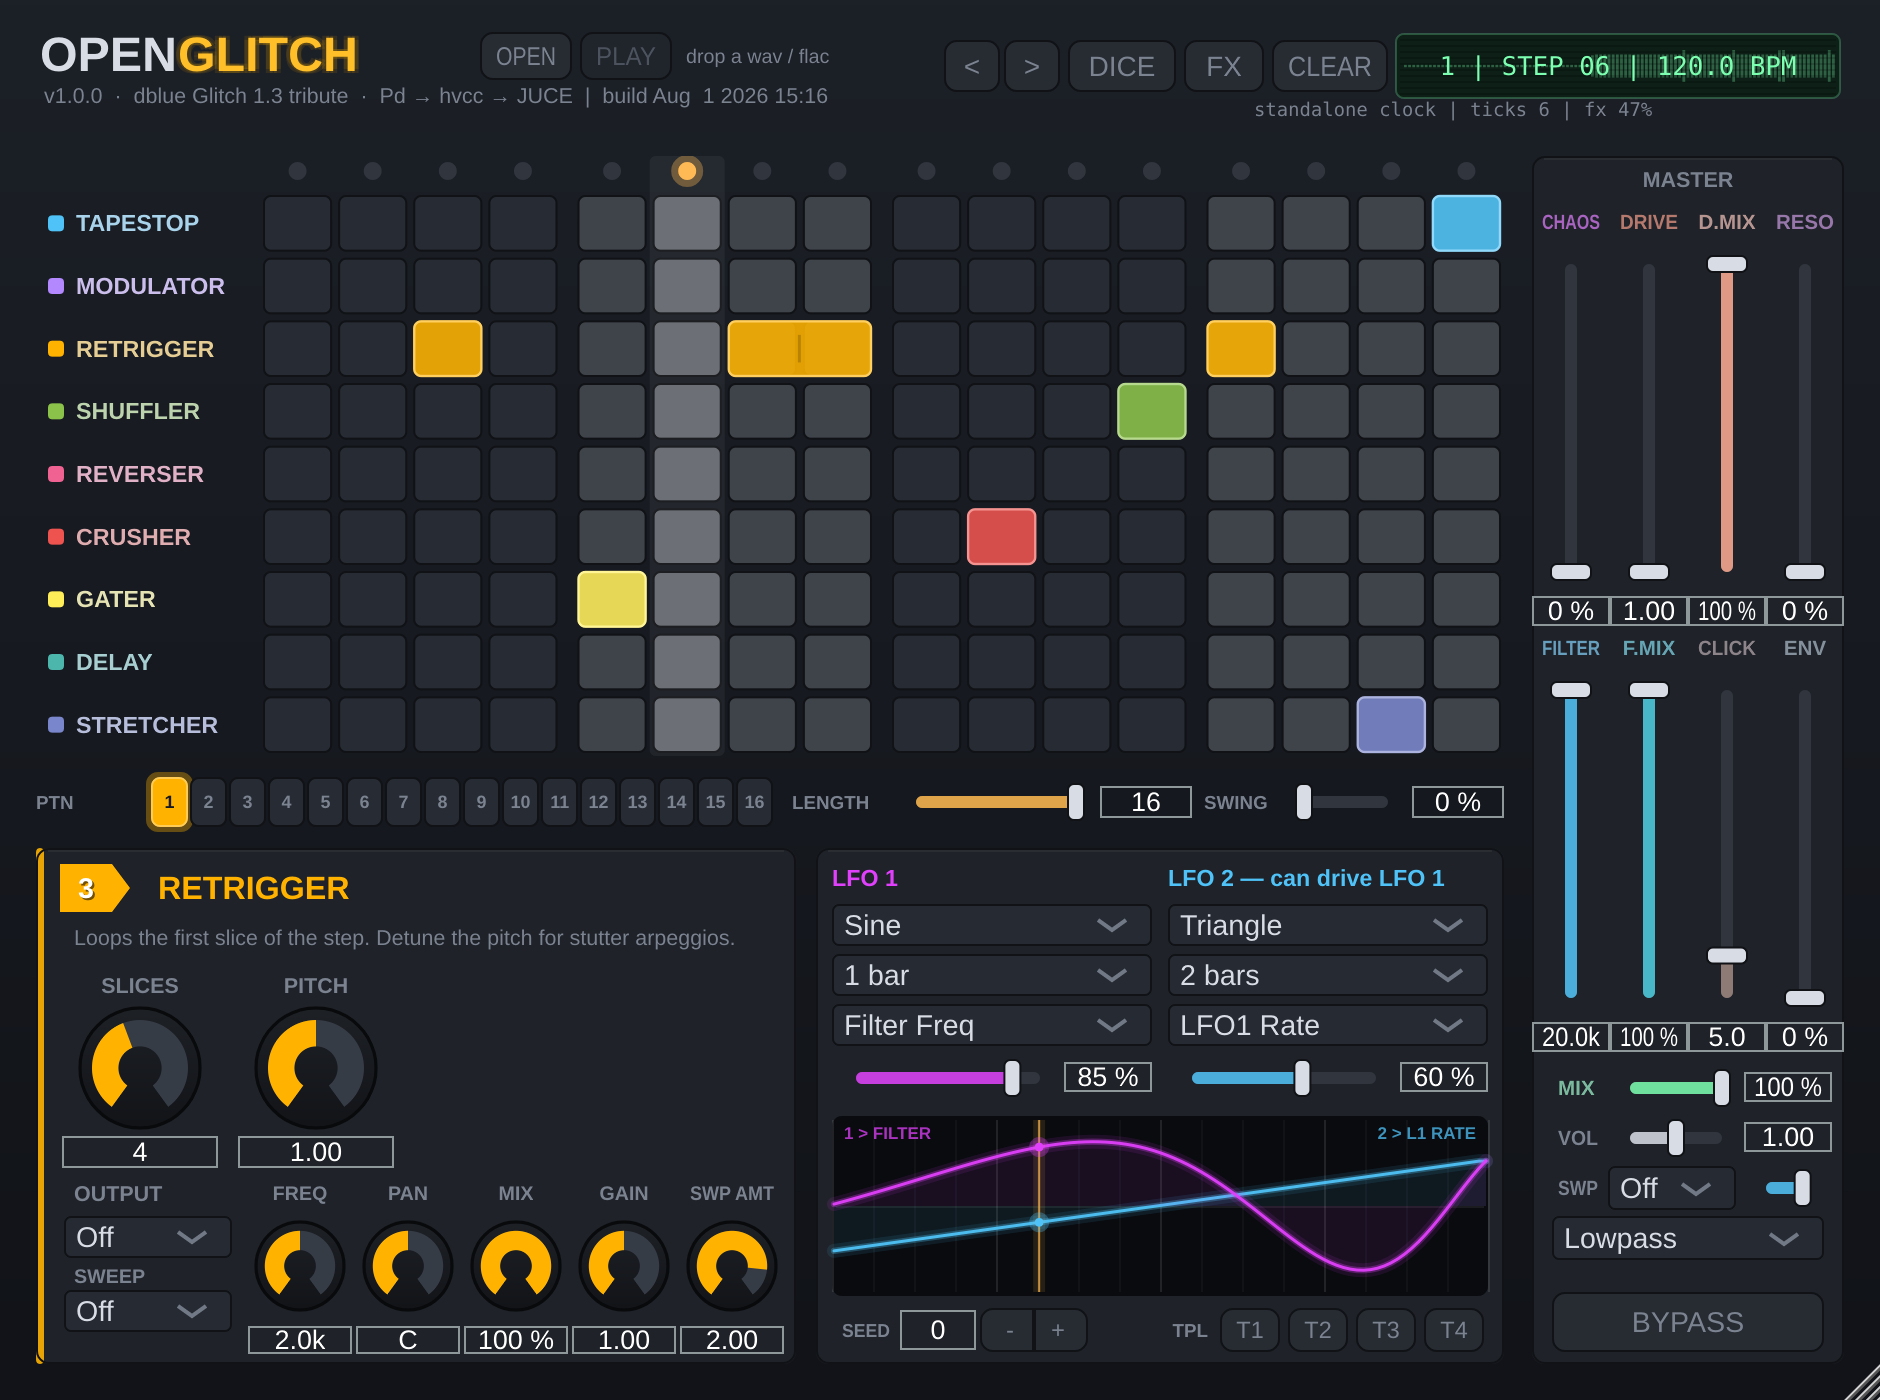
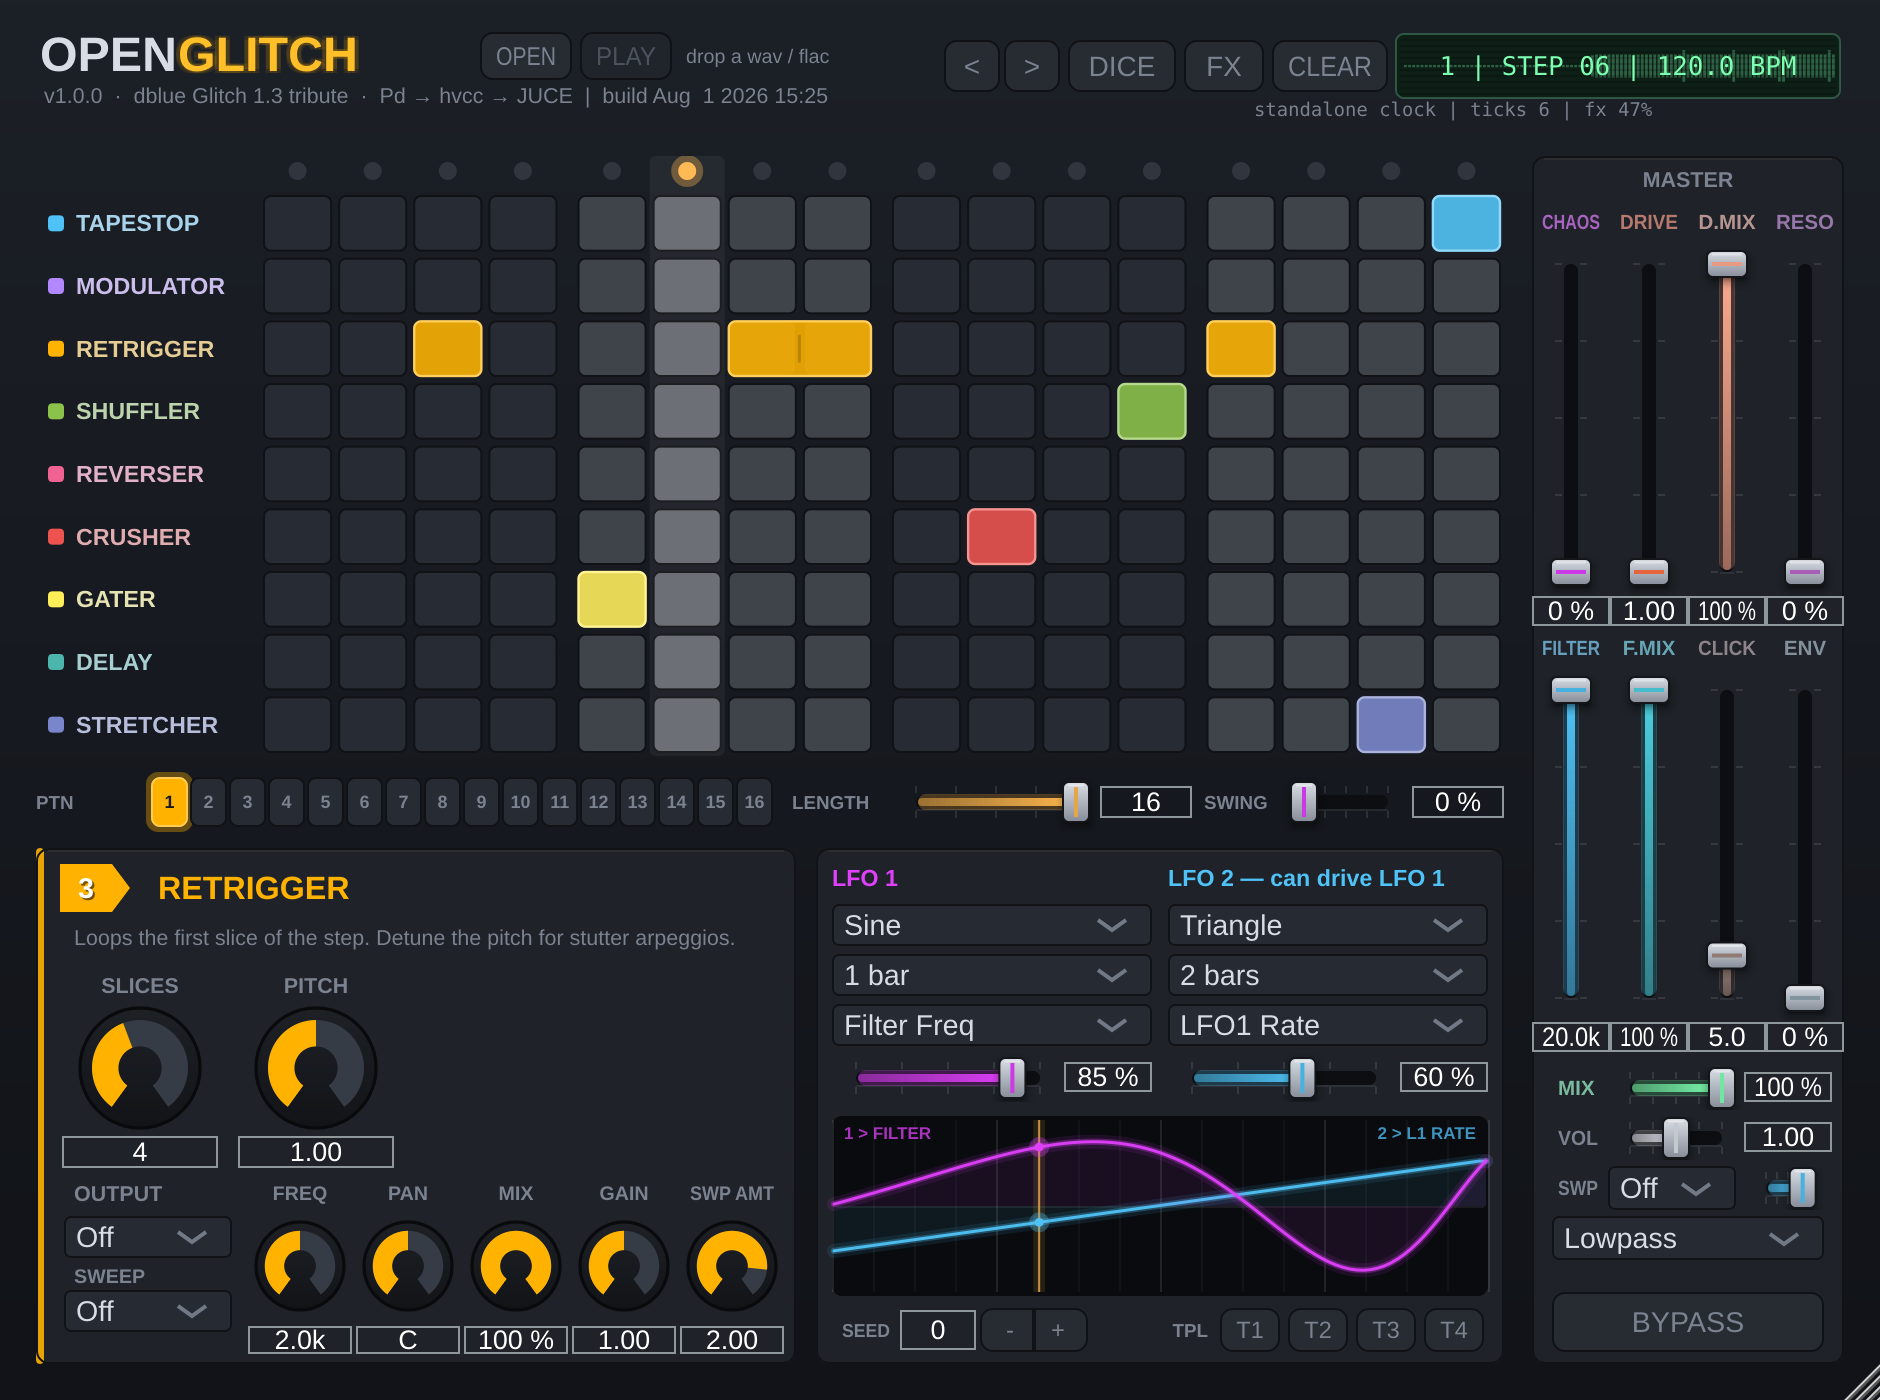
Console-fader sliders: machined caps, recessed slots, lit value bars
Linear sliders (master faders, LENGTH/SWING, LFO depths, MIX/VOL) get a
mixing-desk treatment: a dark recessed slot with quarter-scale ticks, a
value bar that brightens toward the cap, and a gradient metal cap with
the accent-coloured index line and a drop shadow for weight.

diff --git a/src/PluginEditor.cpp b/src/PluginEditor.cpp
@@ -120,24 +120,58 @@ void OpenGlitchLookAndFeel::drawLinearSlider (juce::Graphics& g, int x, int y, i
 {
     using namespace glitch::palette;
 
+    // Console-fader treatment: a recessed slot with scale ticks, a lit value
+    // bar, and a machined cap that casts a shadow so it sits above the panel.
+    const auto fill = slider.findColour (juce::Slider::rotarySliderFillColourId);
+
+    auto drawCap = [&g, &fill] (juce::Rectangle<float> cap, bool horizontal)
+    {
+        juce::DropShadow (juce::Colours::black.withAlpha (0.55f), 5, { 0, 2 })
+            .drawForRectangle (g, cap.toNearestInt());
+        juce::ColourGradient metal (juce::Colour (0xffd9dee5), cap.getCentreX(), cap.getY(),
+                                    juce::Colour (0xff868d98), cap.getCentreX(), cap.getBottom(), false);
+        g.setGradientFill (metal);
+        g.fillRoundedRectangle (cap, 3.0f);
+        g.setColour (juce::Colour (0xff14161a));
+        g.drawRoundedRectangle (cap, 3.0f, 1.0f);
+        g.setColour (juce::Colours::white.withAlpha (0.4f));
+        g.fillRect (cap.getX() + 2.5f, cap.getY() + 1.2f, cap.getWidth() - 5.0f, 1.0f);
+        g.setColour (fill.darker (0.1f));
+        if (horizontal)
+            g.fillRect (cap.getCentreX() - 1.0f, cap.getY() + 2.5f, 2.0f, cap.getHeight() - 5.0f);
+        else
+            g.fillRect (cap.getX() + 2.5f, cap.getCentreY() - 1.0f, cap.getWidth() - 5.0f, 2.0f);
+    };
+
     if (style == juce::Slider::LinearHorizontal)
     {
         const float cy = (float) y + (float) height * 0.5f;
-        const auto fill = slider.findColour (juce::Slider::rotarySliderFillColourId);
 
-        juce::Rectangle<float> track ((float) x, cy - 3.0f, (float) width, 6.0f);
-        g.setColour (juce::Colour (0xff30353e));
-        g.fillRoundedRectangle (track, 3.0f);
+        juce::Rectangle<float> slot ((float) x, cy - 3.5f, (float) width, 7.0f);
+        g.setColour (juce::Colour (0xff0c0e11));
+        g.fillRoundedRectangle (slot, 3.5f);
+        g.setColour (juce::Colours::white.withAlpha (0.07f)); // bottom lip catches the light
+        g.fillRect (slot.getX(), slot.getBottom(), slot.getWidth(), 1.0f);
 
-        juce::Rectangle<float> filled ((float) x, cy - 3.0f, sliderPos - (float) x, 6.0f);
-        g.setColour (fill.withAlpha (0.85f));
-        g.fillRoundedRectangle (filled, 3.0f);
+        g.setColour (juce::Colours::white.withAlpha (0.10f));
+        for (int t = 0; t <= 4; ++t)
+        {
+            const float tx = (float) x + (float) width * (float) t * 0.25f;
+            g.fillRect (tx - 0.5f, cy - 8.0f, 1.0f, 3.5f);
+            g.fillRect (tx - 0.5f, cy + 4.5f, 1.0f, 3.5f);
+        }
 
-        juce::Rectangle<float> thumb (sliderPos - 4.0f, cy - 9.0f, 8.0f, 18.0f);
-        g.setColour (text);
-        g.fillRoundedRectangle (thumb, 3.0f);
-        g.setColour (cellStroke);
-        g.drawRoundedRectangle (thumb, 3.0f, 1.0f);
+        if (sliderPos > (float) x + 1.0f)
+        {
+            juce::Rectangle<float> lit ((float) x + 1.0f, cy - 2.0f, sliderPos - (float) x - 1.0f, 4.0f);
+            g.setColour (fill.withAlpha (0.25f));
+            g.fillRoundedRectangle (lit.expanded (0.0f, 2.0f), 4.0f);
+            juce::ColourGradient charge (fill.withAlpha (0.45f), (float) x, cy, fill, sliderPos, cy, false);
+            g.setGradientFill (charge);
+            g.fillRoundedRectangle (lit, 2.0f);
+        }
+
+        drawCap ({ sliderPos - 6.5f, cy - 10.0f, 13.0f, 20.0f }, true);
         return;
     }
 
@@ -149,21 +183,33 @@ void OpenGlitchLookAndFeel::drawLinearSlider (juce::Graphics& g, int x, int y, i
     }
 
     const float cx = (float) x + (float) width * 0.5f;
-    const auto fill = slider.findColour (juce::Slider::rotarySliderFillColourId);
+    const float bottom = (float) y + (float) height;
 
-    juce::Rectangle<float> track (cx - 3.0f, (float) y, 6.0f, (float) height);
-    g.setColour (juce::Colour (0xff30353e));
-    g.fillRoundedRectangle (track, 3.0f);
+    juce::Rectangle<float> slot (cx - 3.5f, (float) y, 7.0f, (float) height);
+    g.setColour (juce::Colour (0xff0c0e11));
+    g.fillRoundedRectangle (slot, 3.5f);
+    g.setColour (juce::Colours::white.withAlpha (0.07f));
+    g.fillRect (slot.getX(), slot.getBottom(), slot.getWidth(), 1.0f);
 
-    juce::Rectangle<float> filled (cx - 3.0f, sliderPos, 6.0f, (float) y + (float) height - sliderPos);
-    g.setColour (fill.withAlpha (0.85f));
-    g.fillRoundedRectangle (filled, 3.0f);
+    g.setColour (juce::Colours::white.withAlpha (0.10f));
+    for (int t = 0; t <= 4; ++t)
+    {
+        const float ty = (float) y + (float) height * (float) t * 0.25f;
+        g.fillRect (cx - 8.0f, ty - 0.5f, 3.5f, 1.0f);
+        g.fillRect (cx + 4.5f, ty - 0.5f, 3.5f, 1.0f);
+    }
 
-    juce::Rectangle<float> thumb (cx - 10.0f, sliderPos - 4.0f, 20.0f, 8.0f);
-    g.setColour (text);
-    g.fillRoundedRectangle (thumb, 3.0f);
-    g.setColour (cellStroke);
-    g.drawRoundedRectangle (thumb, 3.0f, 1.0f);
+    if (sliderPos < bottom - 1.0f)
+    {
+        juce::Rectangle<float> lit (cx - 2.0f, sliderPos, 4.0f, bottom - 1.0f - sliderPos);
+        g.setColour (fill.withAlpha (0.25f));
+        g.fillRoundedRectangle (lit.expanded (2.0f, 0.0f), 4.0f);
+        juce::ColourGradient charge (fill, cx, sliderPos, fill.withAlpha (0.45f), cx, bottom, false);
+        g.setGradientFill (charge);
+        g.fillRoundedRectangle (lit, 2.0f);
+    }
+
+    drawCap ({ cx - 10.0f, sliderPos - 6.5f, 20.0f, 13.0f }, false);
 }
 
 // ---------------------------------------------------------------------------
